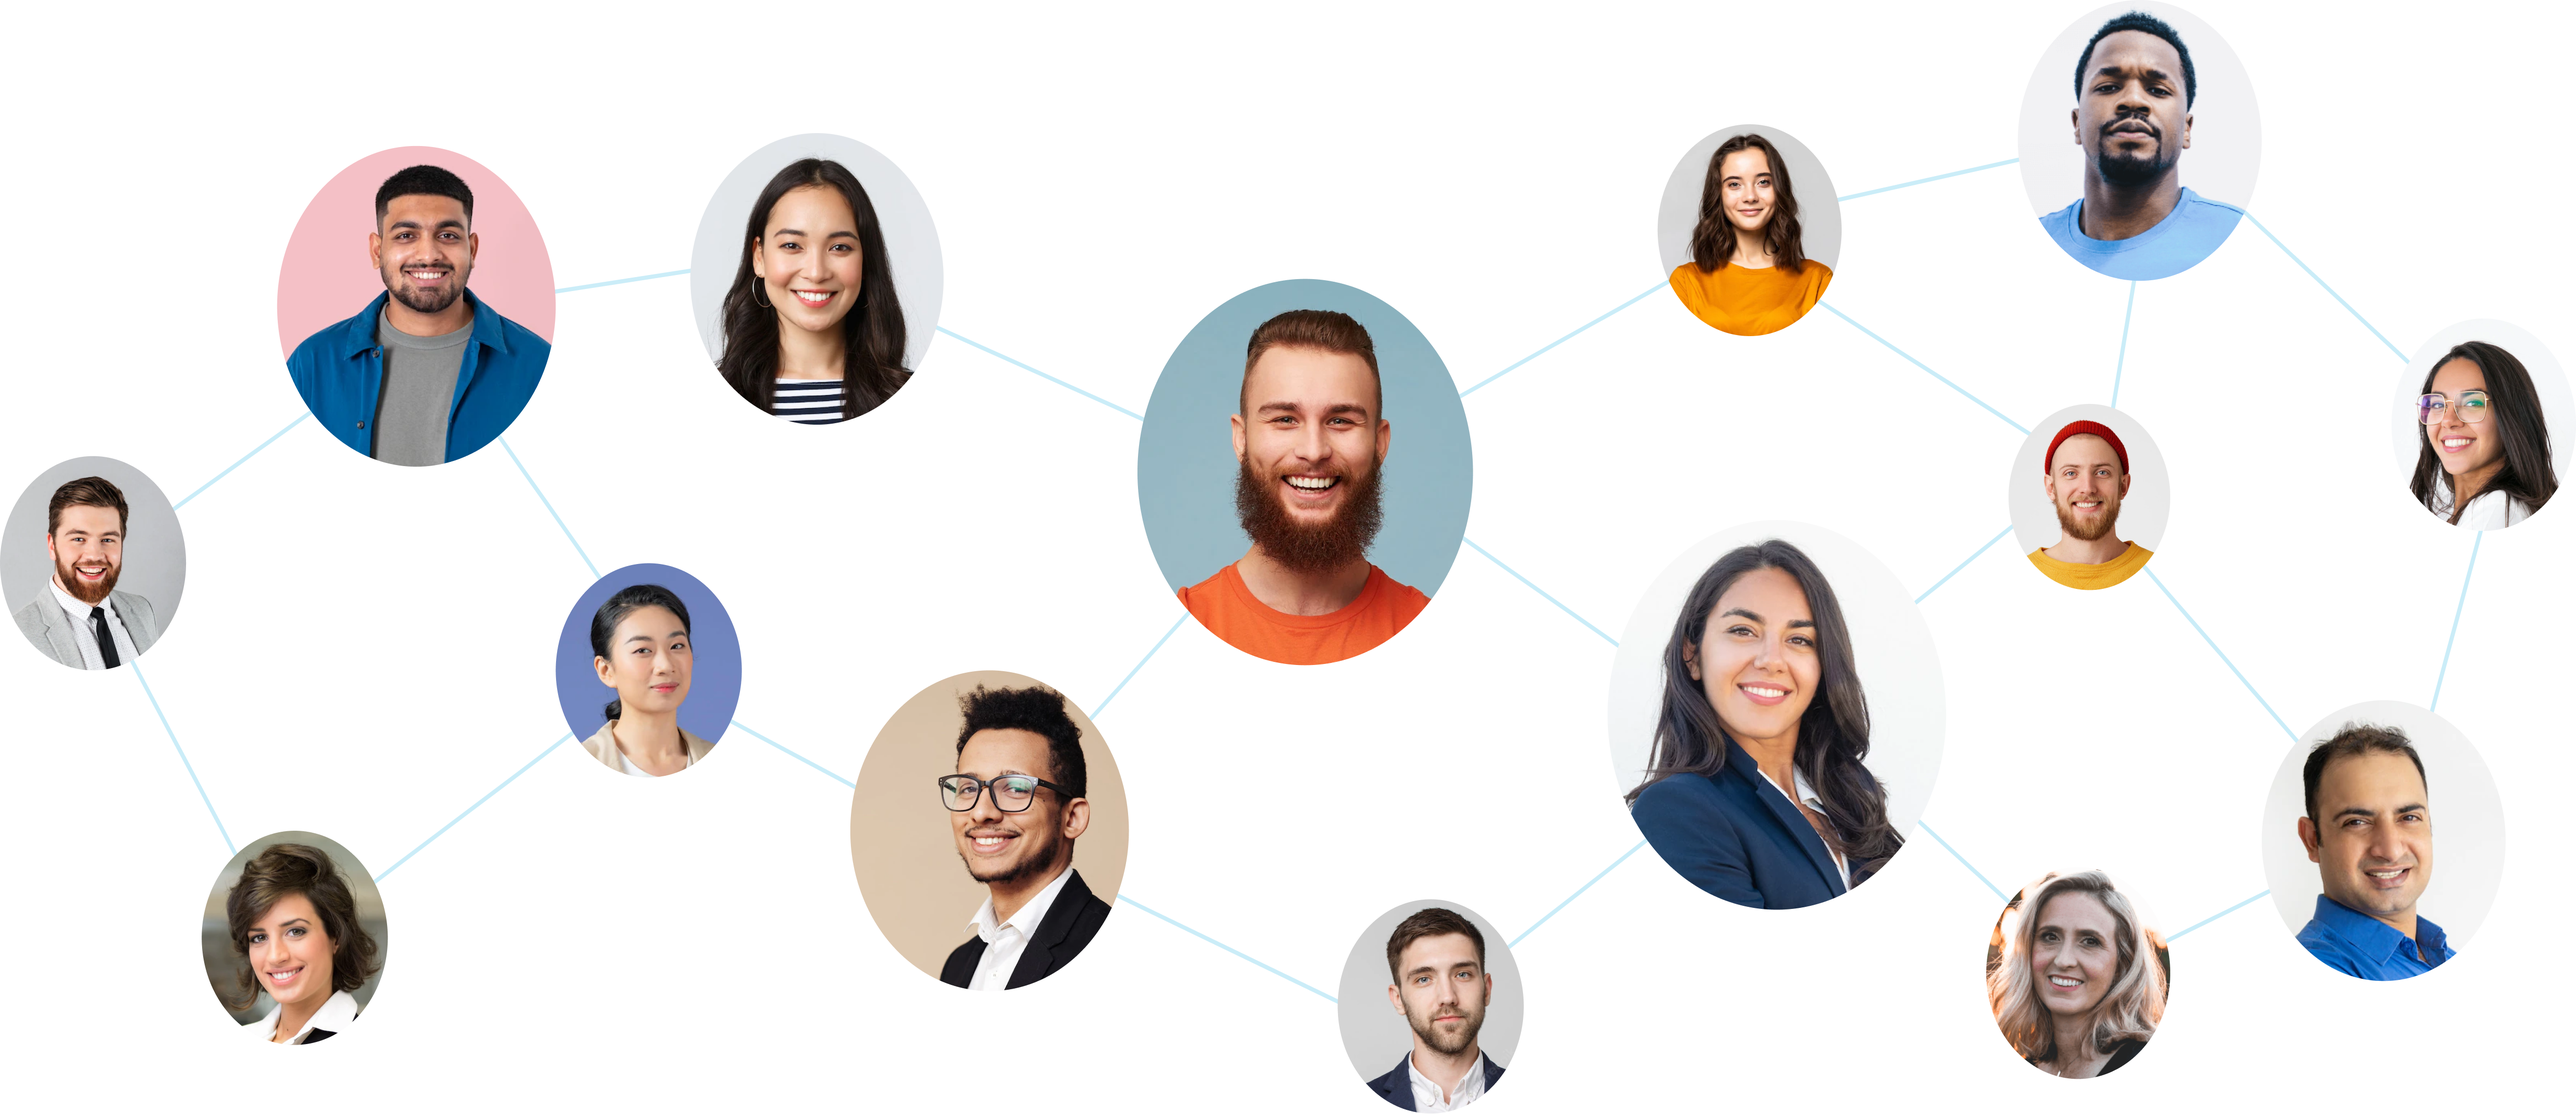
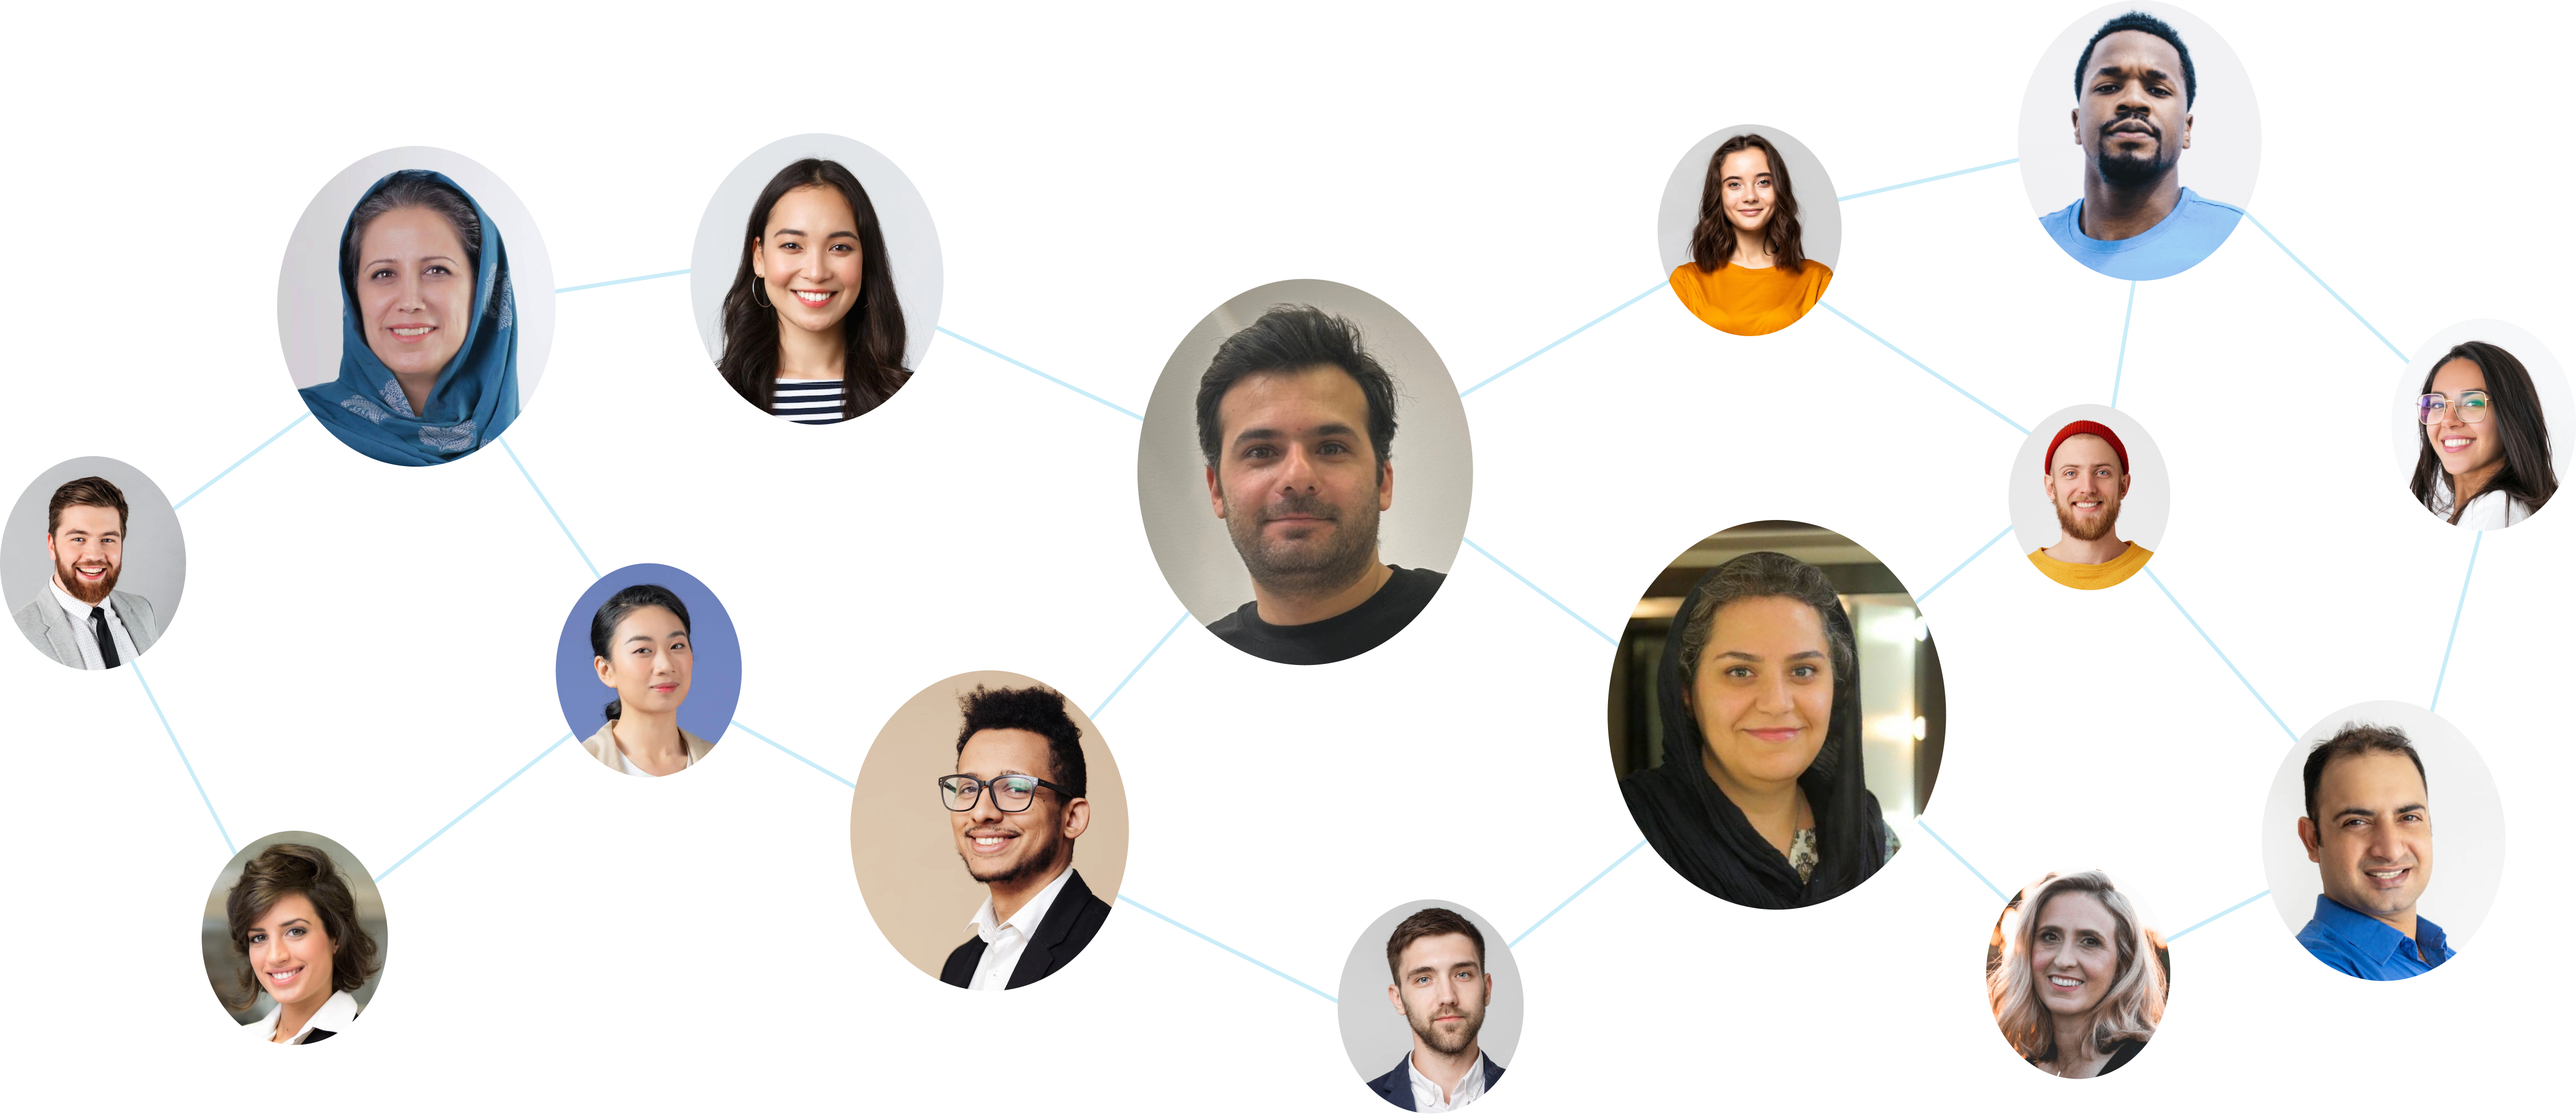
bug fix

Changed region(s): [[0.4365, 0.2492, 0.5924, 0.623], [0.6236, 0.4672, 0.7795, 0.841], [0.0935, 0.1246, 0.2183, 0.4361]]

diff --git a/footer.php b/footer.php
@@ -66,12 +66,12 @@
  
         <?php
         // Store social URLs in Customizer — Appearance > Customize > Social Links
-        $facebook  = get_theme_mod( 'ana_social_facebook',  'https://github.com/darkremap/AnaPlayGroup/pull/13' );
-        $twitter   = get_theme_mod( 'ana_social_twitter',   'https://github.com/darkremap/AnaPlayGroup/pull/13' );
-        $instagram = get_theme_mod( 'ana_social_instagram', 'https://github.com/darkremap/AnaPlayGroup/pull/13' );
-        $linkedin  = get_theme_mod( 'ana_social_linkedin',  'https://github.com/darkremap/AnaPlayGroup/pull/13' );
-        $whatsapp  = get_theme_mod( 'ana_social_whatsapp',  'https://github.com/darkremap/AnaPlayGroup/pull/13' );
-        $telegram  = get_theme_mod( 'ana_social_telegram',  'https://github.com/darkremap/AnaPlayGroup/pull/13' );
+        $facebook  = get_theme_mod( 'ana_social_facebook',  '' );
+        $twitter   = get_theme_mod( 'ana_social_twitter',   '' );
+        $instagram = get_theme_mod( 'ana_social_instagram', 'https://www.instagram.com/anaplaygroup/' );
+        $linkedin  = get_theme_mod( 'ana_social_linkedin',  'https://www.linkedin.com/in/ana-play-group/' );
+        $whatsapp  = get_theme_mod( 'ana_social_whatsapp',  'https://wa.me/989210031737' );
+        $telegram  = get_theme_mod( 'ana_social_telegram',  'https://t.me/+9_Ig2QrrF-Y4MWI0' );
         ?>
  
         <?php if ( $facebook && $facebook !== '#' ) : ?>

diff --git a/front-page.php b/front-page.php
@@ -11,7 +11,7 @@
           با بهرهگیری از روشهای نوین یادگیری، دنیایی از کشف و خلاقیت را تجربه کنید.
           ما راهنمای شما در مسیر رشد و شناخت عمیقتر هستیم.
         </p>
-        <a href="#" class="btn-consult Anabtn">درخواست مشاوره</a>
+        <a href="<?php echo esc_url( home_url( '/contact' ) ); ?>" class="btn-consult Anabtn">درخواست مشاوره</a>
       </div>
 
       <!-- ── Left column: hero image ── -->
@@ -199,7 +199,7 @@
             <p class="iranSans">ما اینجا هستیم تا در مسیر رسیدن به اهدافتان همراه شما باشیم. اگر پروژه خاصی در نظر دارید یا برای چالشهای خود به راهنمایی تخصصی نیاز دارید، تیم ما آماده است تا بینشهای کاربردی مورد نیازتان را ارائه دهد.</p>
         </div>
     </div>
-    <a href="#" class="btn-consult Anabtn">درخواست مشاوره</a>
+    <a href="<?php echo esc_url( home_url( '/contact' ) ); ?>" class="btn-consult Anabtn">درخواست مشاوره</a>
     <div class="container AnaConsultation-image">
         <img src="<?php echo get_template_directory_uri(); ?>/assets/images/Consultation.png" alt="AnaPlayGroup">
     </div>
